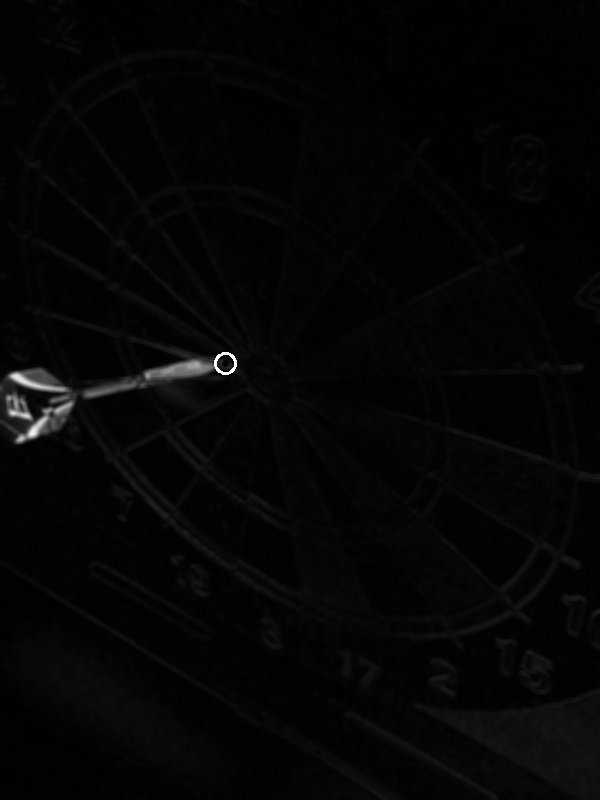
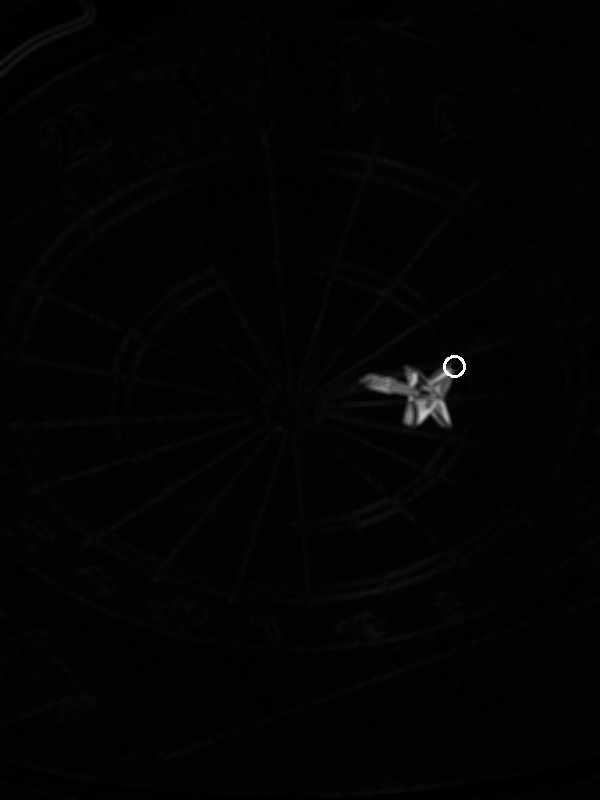
gfjgfj

Changed region(s): [[0.0, 0.4375, 0.39, 0.5625], [0.6, 0.4375, 0.78, 0.5312]]

diff --git a/MyCalibration_1.py b/MyCalibration_1.py
@@ -368,7 +368,7 @@ def getTransformationPoints(image_proc_img, mount):
         # angleZone1 = (-10, 10) # 5, 5 originally
         # angleZone2 = (80,100) # 100, 80 originally
         angleZone1 = (Ellipse.angle + 15, Ellipse.angle + 35)
-        angleZone2 = (Ellipse.angle - 90, Ellipse.angle - 70)
+        angleZone2 = (Ellipse.angle - 90, Ellipse.angle - 40)
         lines_seg, image_proc_img = findSectorLines(edged, image_proc_img, angleZone1, angleZone2)
     else:
         lines_seg, image_proc_img = findSectorLines(edged, image_proc_img, angleZone1=(80, 120), angleZone2=(30, 40))

diff --git a/VideoCapture.py b/VideoCapture.py
@@ -40,9 +40,9 @@ class VideoStream:
 
             # otherwise, read the next frame from the stream
             (grabbed, frame) = self.stream.read()
-            #frame = cv2.flip(frame, -1)  # flip the frame
+            frame = cv2.flip(frame, -1)  # flip the frame
             # rotate the frame 90 degrees
-            frame = cv2.rotate(frame, cv2.ROTATE_90_CLOCKWISE)
+            #frame = cv2.rotate(frame, cv2.ROTATE_90_CLOCKWISE)
 
             # acquire the lock, update the frame, and release the lock
             with self.lock:
